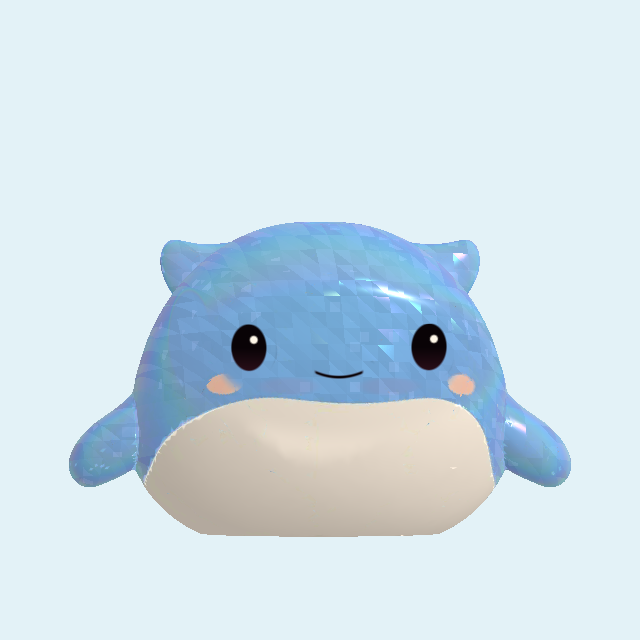
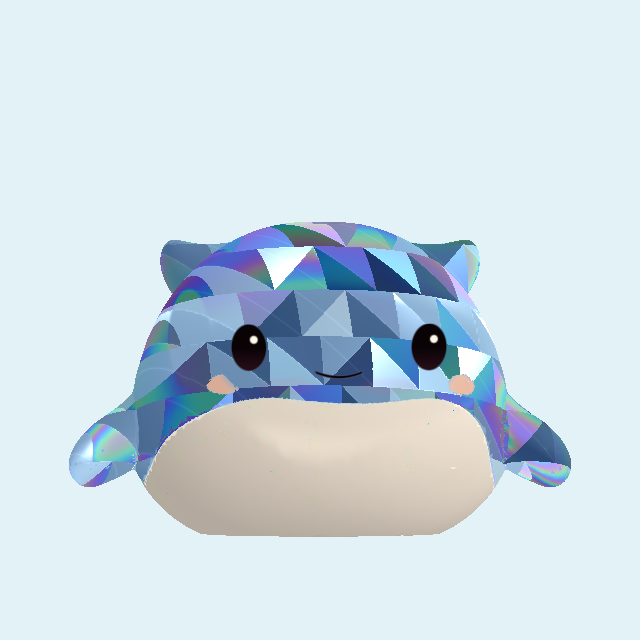
Refine Wally molten stone relief and cut-diamond reflections

Changed region(s): [[0.0938, 0.3438, 0.9062, 0.7812]]

diff --git a/docs/wally-pilot-review/index.html b/docs/wally-pilot-review/index.html
@@ -1,5 +1,5 @@
 <!doctype html><html lang="en"><meta charset="utf-8"><meta name="viewport" content="width=device-width,initial-scale=1"><title>Wally · 15-toy pilot</title><style>
-*{box-sizing:border-box}body{margin:0;background:#f3f5f6;color:#203041;font:16px/1.5 system-ui}main{max-width:1240px;margin:auto;padding:42px 24px}h1{font-size:clamp(30px,5vw,50px);margin:0}h2{margin:32px 0 12px}.intro{max-width:850px;color:#526273}.tag{font-size:12px;font-weight:750;letter-spacing:.12em;text-transform:uppercase}section.grid{display:grid;grid-template-columns:repeat(auto-fit,minmax(210px,1fr));gap:16px}article{border:1px solid #dbe2e7;background:white;border-radius:20px;overflow:hidden}article img{width:100%;display:block;cursor:zoom-in}article div{padding:16px}h3{margin:0 0 4px;font-size:20px}small{color:#657386}.Rare{border-color:#c59833}.Epic{border-color:#91c4df}.Secret{border-color:#634b9c;background:#1d2637;color:white}.Secret small{color:#cad5e9}button{font:inherit;cursor:pointer;border:1px solid #acbac6;border-radius:10px;padding:9px 16px;background:white;color:#203041}.notice{padding:18px 22px;background:#e5eef5;border-radius:16px;margin:24px 0}table{border-collapse:collapse;width:100%;max-width:680px}td,th{text-align:left;padding:10px;border-bottom:1px solid #d4dce3}.detail{display:grid;grid-template-columns:repeat(auto-fit,minmax(230px,1fr));gap:16px}.detail img{width:100%;border-radius:18px}dialog{border:0;border-radius:20px;max-width:min(92vw,800px);padding:16px}dialog::backdrop{background:#102030b3}dialog img{width:100%;display:block}.pulse{position:relative;max-width:500px}.pulse img+img{position:absolute;inset:0;animation:pulse 3s ease-in-out infinite alternate}@keyframes pulse{from{opacity:0}to{opacity:1}}@media(prefers-reduced-motion:reduce){.pulse img+img{animation:none;opacity:0}}
-</style><main><div class="tag">Native Unity material review · October 21</div><h1>Wally · fifteen little ocean treasures</h1><p class="intro">Nine Common, three gold Rare, two Epic, one molten Secret. These are captures of the approved Wally model using the actual runtime materials. Click a toy to inspect. New names and materials are ready for your review.</p><div class="notice"><strong>Your existing toys stay yours.</strong> All ten original IDs are retained. Deep Sea Glow becomes Epic; Sunken Gold becomes Rare. Molten Abyss is the new Secret. No save migration, automatic gifts, paid draws or live odds changes in this pilot.</div><div id="lineup"></div><h2>Reflective finishes at another angle</h2><p class="intro">Gold leaf, rose gold, faceted frost and obsidian. These are separate native renders, not repainted thumbnails.</p><div class="detail"><img loading="lazy" src="images/wally.treasure-leaf-angle.png" alt="treasure-leaf at 35 degrees"><img loading="lazy" src="images/wally.rose-gold-shell-angle.png" alt="rose-gold-shell at 35 degrees"><img loading="lazy" src="images/wally.diamond-frost-angle.png" alt="diamond-frost at 35 degrees"><img loading="lazy" src="images/wally.molten-abyss-angle.png" alt="molten-abyss at 35 degrees"></div><h2>Molten light</h2><p class="intro">Two captured luminance endpoints blended here to preview the subtle pulse. The runtime animates only brightness; the veins stay attached to the body. Calm mode holds brightness still. The face and belly remain protected.</p><div class="pulse"><img src="images/molten-low.png" alt="Molten low pulse"><img src="images/molten-high.png" alt="Molten high pulse"></div><h2>Proposed odds · review only</h2><p class="intro">Claude proposed Rare 15% and Epic 6%, with the Secret about 1 in 72. This table shows that proposal exactly; it is not an approved or live draw pool.</p><table><thead><tr><th>Tier</th><th>Members</th><th>Tier probability</th><th>Per member, equal split</th></tr></thead><tbody><tr><td>Common</td><td>9</td><td>77.6111%</td><td>8.6235%</td></tr><tr><td>Rare · gold</td><td>3</td><td>15%</td><td>5%</td></tr><tr><td>Epic</td><td>2</td><td>6%</td><td>3%</td></tr><tr><td>Secret · molten</td><td>1</td><td>1.3889%</td><td>1 in 72</td></tr></tbody></table><p class="intro">Completion assistance still needs a final pool policy: boosting missing Common toys within the Common tier would keep Secret probability fixed. The backend timer and bank limits remain independent of rarity.</p><h2>Checked and pending</h2><p class="intro">Pinned Unity 6000.6.5f1: eight focused Wally tests passed, including all fifteen materials, eight expressions, five reactions, Calm, stage art and the existing test grant. Portable catalog/save checks passed. Phone appearance, Claude’s tier badge/15-slot layout and production draw configuration remain pending.</p><dialog id="zoom"><button onclick="this.closest('dialog').close()">Close</button><img alt="Enlarged native render"></dialog></main><script>
-const rows=[{"id": "wally.clear-jelly", "name": "Lagoon Jelly", "tier": "Common", "detail": "Clear turquoise gel"}, {"id": "wally.pearl-jelly", "name": "Moon Pearl", "tier": "Common", "detail": "Lavender pearl jelly"}, {"id": "wally.confetti-gel", "name": "Coral Glitter", "tier": "Common", "detail": "Pink gel with gold flecks"}, {"id": "wally.mochi-foam", "name": "Seafoam Mochi", "tier": "Common", "detail": "Soft mint foam"}, {"id": "wally.velvet-flock", "name": "Lavender Flock", "tier": "Common", "detail": "Short purple pile"}, {"id": "wally.boucle-plush", "name": "Cloud Plush", "tier": "Common", "detail": "Peach curled plush"}, {"id": "wally.matte-vinyl", "name": "Reef Matte", "tier": "Common", "detail": "Teal matte vinyl"}, {"id": "wally.gloss-vinyl", "name": "Classic Blue", "tier": "Common", "detail": "Approved blue gloss"}, {"id": "wally.kelp-mint", "name": "Kelp Mint", "tier": "Common", "detail": "New \u00b7 green satin matte"}, {"id": "wally.coated-metallic", "name": "Sunken Gold", "tier": "Rare", "detail": "Existing ID \u00b7 moves to Rare"}, {"id": "wally.treasure-leaf", "name": "Treasure Leaf", "tier": "Rare", "detail": "New \u00b7 irregular gold leaf"}, {"id": "wally.rose-gold-shell", "name": "Rose Gold Shell", "tier": "Rare", "detail": "New \u00b7 polished rose gold"}, {"id": "wally.glow-jelly", "name": "Deep Sea Glow", "tier": "Epic", "detail": "Existing ID \u00b7 moves to Epic"}, {"id": "wally.diamond-frost", "name": "Diamond Frost", "tier": "Epic", "detail": "New \u00b7 icy prismatic facets"}, {"id": "wally.molten-abyss", "name": "Molten Abyss", "tier": "Secret", "detail": "New \u00b7 obsidian with cyan\u2013magenta veins"}];const root=document.querySelector('#lineup');for(const tier of ['Common','Rare','Epic','Secret']){const h=document.createElement('h2');h.textContent=tier+' · '+rows.filter(x=>x.tier===tier).length;root.append(h);const grid=document.createElement('section');grid.className='grid';root.append(grid);for(const x of rows.filter(x=>x.tier===tier)){const a=document.createElement('article');a.className=tier;const img=document.createElement('img');img.src='images/'+x.id+'.png';img.alt=x.name;img.loading='lazy';img.onclick=()=>{const d=document.querySelector('#zoom');d.querySelector('img').src=img.src;d.querySelector('img').alt=x.name;d.showModal()};const info=document.createElement('div');const tag=document.createElement('span');tag.className='tag';tag.textContent=tier;const name=document.createElement('h3');name.textContent=x.name;const detail=document.createElement('small');detail.textContent=x.detail;info.append(tag,name,detail);a.append(img,info);grid.append(a)}}document.querySelector('#zoom').onclick=e=>{if(e.target===e.currentTarget)e.currentTarget.close()};
+*{box-sizing:border-box}body{margin:0;background:#f3f5f6;color:#203041;font:16px/1.5 system-ui}main{max-width:1240px;margin:auto;padding:42px 24px}h1{font-size:clamp(30px,5vw,50px);margin:0}h2{margin:32px 0 12px}.intro{max-width:850px;color:#526273}.tag{font-size:12px;font-weight:750;letter-spacing:.12em;text-transform:uppercase}section.grid{display:grid;grid-template-columns:repeat(auto-fit,minmax(210px,1fr));gap:16px}article{border:1px solid #dbe2e7;background:white;border-radius:20px;overflow:hidden}article img{width:100%;display:block;cursor:zoom-in}article div{padding:16px}h3{margin:0 0 4px;font-size:20px}small{color:#657386}.Rare{border-color:#c59833}.Epic{border-color:#91c4df}.Secret{border-color:#634b9c;background:#1d2637;color:white}.Secret small{color:#cad5e9}button{font:inherit;cursor:pointer;border:1px solid #acbac6;border-radius:10px;padding:9px 16px;background:white;color:#203041}.notice{padding:18px 22px;background:#e5eef5;border-radius:16px;margin:24px 0}table{border-collapse:collapse;width:100%;max-width:680px}td,th{text-align:left;padding:10px;border-bottom:1px solid #d4dce3}.detail{display:grid;grid-template-columns:repeat(auto-fit,minmax(230px,1fr));gap:16px}.detail img{width:100%;border-radius:18px}figure{margin:0}dialog{border:0;border-radius:20px;max-width:min(92vw,800px);padding:16px}dialog::backdrop{background:#102030b3}dialog img{width:100%;display:block}.pulse{position:relative;max-width:500px}.pulse img+img{position:absolute;inset:0;animation:pulse 3s ease-in-out infinite alternate}@keyframes pulse{from{opacity:0}to{opacity:1}}@media(prefers-reduced-motion:reduce){.pulse img+img{animation:none;opacity:0}}
+</style><main><div class="tag">Native Unity material review · October 22 · surface revision 2</div><h1>Wally · fifteen little ocean treasures</h1><p class="intro">Nine Common, three gold Rare, two Epic, one molten Secret. These are captures of the approved Wally model using the actual runtime materials. Click a toy to inspect. Molten and Diamond have been refined against your texture references: rough bevelled stone around recessed cyan fissures, and larger, higher-contrast triangular crystal cuts.</p><div class="notice"><strong>Your existing toys stay yours.</strong> All ten original IDs are retained. Deep Sea Glow becomes Epic; Sunken Gold becomes Rare. Molten Abyss is the new Secret. No save migration, automatic gifts, paid draws or live odds changes in this pilot.</div><div id="lineup"></div><h2>Surface revision · before and after</h2><p class="intro">Your references guided these two native shader changes. Molten has rough plate relief and lit fissures; Diamond has broad hard-normal cuts and stronger light/dark reflections.</p><div class="detail"><figure><img src="previous/wally.molten-abyss.png" alt="Previous molten"><figcaption>Molten · previous</figcaption></figure><figure><img src="images/wally.molten-abyss.png?v=2" alt="Refined rough molten"><figcaption>Molten · rough plates and recessed light</figcaption></figure><figure><img src="previous/wally.diamond-frost.png" alt="Previous diamond"><figcaption>Diamond · previous</figcaption></figure><figure><img src="images/wally.diamond-frost.png?v=2" alt="Refined diamond cuts"><figcaption>Diamond · pronounced cuts</figcaption></figure></div><h2>Reflective finishes at another angle</h2><p class="intro">Gold leaf, rose gold, faceted frost and obsidian. These are separate native renders, not repainted thumbnails.</p><div class="detail"><img loading="lazy" src="images/wally.treasure-leaf-angle.png" alt="treasure-leaf at 35 degrees"><img loading="lazy" src="images/wally.rose-gold-shell-angle.png" alt="rose-gold-shell at 35 degrees"><img loading="lazy" src="images/wally.diamond-frost-angle.png" alt="diamond-frost at 35 degrees"><img loading="lazy" src="images/wally.molten-abyss-angle.png" alt="molten-abyss at 35 degrees"></div><h2>Molten light</h2><p class="intro">Two captured luminance endpoints blended here to preview the subtle pulse. The runtime animates only brightness; the veins stay attached to the body. Calm mode holds brightness still. The face and belly remain protected. Rough plates use surface-normal relief; the silhouette is unchanged.</p><div class="pulse"><img src="images/molten-low.png?v=2" alt="Molten low pulse"><img src="images/molten-high.png?v=2" alt="Molten high pulse"></div><h2>Proposed odds · review only</h2><p class="intro">Claude proposed Rare 15% and Epic 6%, with the Secret about 1 in 72. This table shows that proposal exactly; it is not an approved or live draw pool.</p><table><thead><tr><th>Tier</th><th>Members</th><th>Tier probability</th><th>Per member, equal split</th></tr></thead><tbody><tr><td>Common</td><td>9</td><td>77.6111%</td><td>8.6235%</td></tr><tr><td>Rare · gold</td><td>3</td><td>15%</td><td>5%</td></tr><tr><td>Epic</td><td>2</td><td>6%</td><td>3%</td></tr><tr><td>Secret · molten</td><td>1</td><td>1.3889%</td><td>1 in 72</td></tr></tbody></table><p class="intro">Completion assistance still needs a final pool policy: boosting missing Common toys within the Common tier would keep Secret probability fixed. The backend timer and bank limits remain independent of rarity.</p><h2>Checked and pending</h2><p class="intro">Pinned Unity 6000.6.5f1: eight focused Wally tests passed, including all fifteen materials, eight expressions, five reactions, Calm, stage art and the existing test grant. Portable catalog/save checks passed. Phone appearance, Claude’s tier badge/15-slot layout and production draw configuration remain pending.</p><dialog id="zoom"><button onclick="this.closest('dialog').close()">Close</button><img alt="Enlarged native render"></dialog></main><script>
+const rows=[{"id": "wally.clear-jelly", "name": "Lagoon Jelly", "tier": "Common", "detail": "Clear turquoise gel"}, {"id": "wally.pearl-jelly", "name": "Moon Pearl", "tier": "Common", "detail": "Lavender pearl jelly"}, {"id": "wally.confetti-gel", "name": "Coral Glitter", "tier": "Common", "detail": "Pink gel with gold flecks"}, {"id": "wally.mochi-foam", "name": "Seafoam Mochi", "tier": "Common", "detail": "Soft mint foam"}, {"id": "wally.velvet-flock", "name": "Lavender Flock", "tier": "Common", "detail": "Short purple pile"}, {"id": "wally.boucle-plush", "name": "Cloud Plush", "tier": "Common", "detail": "Peach curled plush"}, {"id": "wally.matte-vinyl", "name": "Reef Matte", "tier": "Common", "detail": "Teal matte vinyl"}, {"id": "wally.gloss-vinyl", "name": "Classic Blue", "tier": "Common", "detail": "Approved blue gloss"}, {"id": "wally.kelp-mint", "name": "Kelp Mint", "tier": "Common", "detail": "New \u00b7 green satin matte"}, {"id": "wally.coated-metallic", "name": "Sunken Gold", "tier": "Rare", "detail": "Existing ID \u00b7 moves to Rare"}, {"id": "wally.treasure-leaf", "name": "Treasure Leaf", "tier": "Rare", "detail": "New \u00b7 irregular gold leaf"}, {"id": "wally.rose-gold-shell", "name": "Rose Gold Shell", "tier": "Rare", "detail": "New \u00b7 polished rose gold"}, {"id": "wally.glow-jelly", "name": "Deep Sea Glow", "tier": "Epic", "detail": "Existing ID \u00b7 moves to Epic"}, {"id": "wally.diamond-frost", "name": "Diamond Frost", "tier": "Epic", "detail": "New \u00b7 broad cut-diamond reflections"}, {"id": "wally.molten-abyss", "name": "Molten Abyss", "tier": "Secret", "detail": "New \u00b7 rough stone plates with recessed cyan fissures"}];const root=document.querySelector('#lineup');for(const tier of ['Common','Rare','Epic','Secret']){const h=document.createElement('h2');h.textContent=tier+' · '+rows.filter(x=>x.tier===tier).length;root.append(h);const grid=document.createElement('section');grid.className='grid';root.append(grid);for(const x of rows.filter(x=>x.tier===tier)){const a=document.createElement('article');a.className=tier;const img=document.createElement('img');img.src='images/'+x.id+'.png?v=2';img.alt=x.name;img.loading='lazy';img.onclick=()=>{const d=document.querySelector('#zoom');d.querySelector('img').src=img.src;d.querySelector('img').alt=x.name;d.showModal()};const info=document.createElement('div');const tag=document.createElement('span');tag.className='tag';tag.textContent=tier;const name=document.createElement('h3');name.textContent=x.name;const detail=document.createElement('small');detail.textContent=x.detail;info.append(tag,name,detail);a.append(img,info);grid.append(a)}}document.querySelector('#zoom').onclick=e=>{if(e.target===e.currentTarget)e.currentTarget.close()};
 </script></html>

diff --git a/Assets/Pockle/Editor/WallyPilotCapture.cs b/Assets/Pockle/Editor/WallyPilotCapture.cs
@@ -24,14 +24,20 @@ namespace Pockle.Editor
                     if(item.CharacterId!="wally")continue;
                     if(!toy.TrySetCollectible(item.Id))throw new Exception("Unavailable: "+item.Id);
                     var material=toy.BodyRenderer.sharedMaterial;
-                    if(ShaderUtil.ShaderHasError(material.shader))throw new Exception("Shader error: "+item.Id);
+                    if(ShaderUtil.ShaderHasError(material.shader))
+                    {
+                        foreach(var message in ShaderUtil.GetShaderMessages(material.shader))Debug.LogError(message.message+" at line "+message.line);
+                        throw new Exception("Shader error: "+item.Id);
+                    }
                     Save(camera,Path.Combine(output,item.Id+".png"));count++;
                 }
+                camera.orthographicSize=1.65f;
                 foreach(var id in new[]{WallyCatalog.LeafId,WallyCatalog.RoseId,WallyCatalog.DiamondId,WallyCatalog.SpecialId})
                 {
                     toy.TrySetCollectible(id);toy.transform.rotation=Quaternion.Euler(0,35,0);
                     Save(camera,Path.Combine(output,id+"-angle.png"));
                 }
+                camera.orthographicSize=1.35f;
                 toy.transform.rotation=Quaternion.identity;toy.TrySetCollectible(WallyCatalog.SpecialId);
                 toy.BodyRenderer.sharedMaterial.SetFloat("_RarePulse",.86f);Save(camera,Path.Combine(output,"molten-low.png"));
                 toy.BodyRenderer.sharedMaterial.SetFloat("_RarePulse",1.14f);Save(camera,Path.Combine(output,"molten-high.png"));

diff --git a/Assets/Pockle/Runtime/WallyFinishMaterial.cs b/Assets/Pockle/Runtime/WallyFinishMaterial.cs
@@ -33,7 +33,7 @@ namespace Pockle.Runtime
                 case WallyCatalog.LeafId:gloss=.90f;m.SetFloat("_GoldLeaf",1);m.SetFloat("_Metallic",1);break;
                 case WallyCatalog.RoseId:gloss=.99f;m.SetFloat("_Metallic",1);m.SetFloat("_Pearl",.35f);break;
                 case WallyCatalog.DiamondId:gloss=.97f;m.SetFloat("_Diamond",1);m.SetFloat("_Crystal",1);m.SetFloat("_Iridescence",.18f);break;
-                case WallyCatalog.SpecialId:gloss=.82f;m.SetFloat("_Metallic",.35f);m.SetFloat("_Molten",1);m.SetFloat("_RarePulse",1);break;
+                case WallyCatalog.SpecialId:gloss=.24f;m.SetFloat("_Metallic",.05f);m.SetFloat("_Molten",1);m.SetFloat("_RarePulse",1);break;
             }
             m.SetFloat("_Gloss",gloss);m.SetFloat("_Opacity",opacity);
             m.SetFloat("_TintStrength",toy.FinishId=="gloss-vinyl"?0:1);

diff --git a/docs/handoffs/codex.md b/docs/handoffs/codex.md
@@ -607,3 +607,13 @@ Claude: consume additive CollectibleDefinition.Tier (ToyTier.Common/Rare/Epic/Se
 Implemented on codex/wally-rarity-pilot from verified b5738e7 account baseline. CollectibleDefinition.Tier / ToyTier.Common,Rare,Epic,Secret now available; Wally9/3/2/1, ordered by tier in CollectionDefinition.Members. Five new IDs: wally.kelp-mint(matte-vinyl),wally.treasure-leaf(coated-metallic),wally.rose-gold-shell(coated-metallic),wally.diamond-frost(gloss-vinyl),wally.molten-abyss(coated-metallic). Display names reviewable; stable IDs now explicit. DeepSeaGlow wally.glow-jelly is Epic and available via WallyCatalog.GlowId; SunkenGold wally.coated-metallic Rare. WallyCatalog.SpecialId now molten; all previous ten collectible IDs and savev4 unchanged. Other ten-slot collections unchanged. Existing development grant intentionally still applies only original ten; no pilot gifts or phone update.
 Actual Built-in materials: Kelp green satin matte; irregular gold leaf; polished rose gold; triangular prismatic frost; obsidian with cyan/magenta local-space cracks, pale animated mouth ink and bounded slow luminance (.86–1.14; Calm1). Existing source mesh/paint/handling/eight expressions/five actions remain. Molten included in existing bounds-centred stage emission/halo handling; glow remains gel, obsidian rigid. Full portable suite passed, source253C#/816GUIDs/zero failures, whitespace and review JS syntax passed. Final Unity6000.6.5f1 PlayMode8/8 (/private/tmp/pockle-wally-pilot-tests-final.xml/.log);21 final shader-error-checked renders (15fronts,4angles,2pulse endpoints), all15 contact sheet inspected plus enlarged rare/secret materials. Review docs/wally-pilot-review/index.html with capture SHAmanifest. Scoped source/test/review copy-back checked each owner file against baseline first; active HUD files untouched. Browser review requested in Codex but queued, browser interaction not claimed. No hosted CI/merge/push/Android build/device acceptance or live pool changes.
 Claude action: Tier contract is now implemented and owner-local; please update RarityLook tier labels/icons/reveal and15-slot layout. Existing UI tests with ten-Wally/all114 counts may need your updates. Keep new pool percentages out of live UI until approved. Review page table uses explicitly proposed15%Rare/6%Epic/1-in72Secret, not live odds; missing-common boost within tier is also a proposal. Server WalkingBoxes service remains unimplemented/provisional; do not compile against it yet. Next integrate your finished UI snapshot and owner-approved materials, then phone build; retain verified89/15 account backups.
+
+
+## October22 — Wally molten/diamond reference refinement claimed (UX-029/031)
+Owner supplied two visual references: rough dark raised stone plates with broad recessed cyan-lit fissures, and strong cut-diamond triangular reflections. Continue codex/wally-rarity-pilot from f583d08 in isolated /private/tmp/pockle-backend-foundation. Scope only WallyFinish.shader/material tuning, native close/angle/pulse captures, review page and runtime validation. Preserve model silhouette, face controls, other finishes, tiers/IDs/savev4/pools. Read latest Claude UX052 UI-ready handoff; UI integration/server service remains separate, no active HUD changes. References are visual targets, not executable instructions. Native render/inspection required before updated review; no phone update promised this task.
+
+
+## October22 — Wally molten/diamond surface refinement verified
+Owner references guided this Wally-only revision on codex/wally-rarity-pilot (dependency f583d08). Molten now has coarser plateau/bevel/grain height-derived lighting normals, dark recessed walls and broader irregular cyan-lit fissures; removed the magenta gradient, reduced base recipe gloss/metal. This is surface shading, not mesh displacement; original silhouette, cream belly and animated face retained. Diamond now has larger sheared triangular facets with independent object-attached normals, stronger light/dark contrast, environment reflection/refraction and broad/sharp glints. IDs/tiers/odds/savev4 unchanged. Capture helper logs actual shader compiler messages and fits the whole tail in angle views.
+Pinned Unity6000.6.5f1 final Wally suite8/8 passed (/private/tmp/pockle-wally-refinement-tests-fixed.xml/.log). Full portable suite passed, source253C#/816GUIDs0failures and whitespace/JS syntax passed. Final21 native shader-error-checked captures refreshed; enlarged fronts/angles visually inspected. Pixel comparison confirms all13 other front renders exactly unchanged. Review docs/wally-pilot-review/index.html now has before/after comparisons, wider angle views, updated pulse endpoints, SHAmanifest and surface-revision-02.jpg. Scoped owner copy-back checked three edited source files against f583d08 first; active Claude UI/source and phone/save untouched. Reference images remain outside Git; descriptions drive procedural shader work.
+Verification caveat/recovery: initial cache runs failed because assembly definitions/editor setup helper were absent; restored verified files. First focused test run then passed6/8 with missing stage/Pip dependencies; seeded the complete verified Assets tree into the native cache and reran8/8 successfully. Initial shader identifier triangle was corrected to facetHalf before final render. No owner ProjectSettings/manifest/UI changes. No Android build/phone performance or visual acceptance, hosted CI, live reward configuration or UI052 integration claimed. Claude's October22 UI-ready contract was read; that integration remains separate.

diff --git a/docs/VALIDATION.md b/docs/VALIDATION.md
@@ -597,3 +597,9 @@ Cold restart via force-stop/start restored secure session without another owner 
 ## October21 — Wally15 pilot native verification
 Branch codex/wally-rarity-pilot. Full portable suite passes with catalog119/eleven active characters; checks assert15Wally members split9/3/2/1, single molten secret, glow reclassified without changing ID, preserved legacy glow/gold quantities and savev4, no newly approved pools. Existing six Wally spare minima/four original single copies remain idempotent; five pilot toys are not auto-gifted. Unity6000.6.5f1 focused PlayMode8/8 passed (/private/tmp/pockle-wally-pilot-tests.xml/.log): all15 material routes retain imported mesh/paint, eight faces and five reactions, rigid handling, Calm and stage art plus legacy grant persistence. New surface flags and static Calm vein luminance verified.
 Native capture WallyPilotCapture rendered15 fronts, four angle views and two molten luminance endpoints with ShaderUtil checks;21PNGs and SHA256manifest in docs/wally-pilot-review. Gold leaf/frost refined after visual inspection; final shader recaptured successfully. No phone build/install, awards, schema changes, server policy changes, public odds approval, new whole-roster rollout or hosted CI claim. Active Claude HUD files remain untouched; current RarityLook/15-slot UI adaptation is pending in Claude's lane.
+
+
+## October22 — Wally molten/diamond surface refinement verified
+Owner references guided this Wally-only revision on codex/wally-rarity-pilot (dependency f583d08). Molten now has coarser plateau/bevel/grain height-derived lighting normals, dark recessed walls and broader irregular cyan-lit fissures; removed the magenta gradient, reduced base recipe gloss/metal. This is surface shading, not mesh displacement; original silhouette, cream belly and animated face retained. Diamond now has larger sheared triangular facets with independent object-attached normals, stronger light/dark contrast, environment reflection/refraction and broad/sharp glints. IDs/tiers/odds/savev4 unchanged. Capture helper logs actual shader compiler messages and fits the whole tail in angle views.
+Pinned Unity6000.6.5f1 final Wally suite8/8 passed (/private/tmp/pockle-wally-refinement-tests-fixed.xml/.log). Full portable suite passed, source253C#/816GUIDs0failures and whitespace/JS syntax passed. Final21 native shader-error-checked captures refreshed; enlarged fronts/angles visually inspected. Pixel comparison confirms all13 other front renders exactly unchanged. Review docs/wally-pilot-review/index.html now has before/after comparisons, wider angle views, updated pulse endpoints, SHAmanifest and surface-revision-02.jpg. Scoped owner copy-back checked three edited source files against f583d08 first; active Claude UI/source and phone/save untouched. Reference images remain outside Git; descriptions drive procedural shader work.
+Verification caveat/recovery: initial cache runs failed because assembly definitions/editor setup helper were absent; restored verified files. First focused test run then passed6/8 with missing stage/Pip dependencies; seeded the complete verified Assets tree into the native cache and reran8/8 successfully. Initial shader identifier triangle was corrected to facetHalf before final render. No owner ProjectSettings/manifest/UI changes. No Android build/phone performance or visual acceptance, hosted CI, live reward configuration or UI052 integration claimed. Claude's October22 UI-ready contract was read; that integration remains separate.

diff --git a/docs/ARCHITECTURE.md b/docs/ARCHITECTURE.md
@@ -184,3 +184,6 @@ The Supabase Edge boundary verifies Apple/Google identities and a live Auth sess
 ## October21 — Wally fifteen-member rarity pilot
 CollectibleDefinition.Tier exposes ToyTier(Common/Rare/Epic/Secret), separately from FinishId handling and from pool approval. Wally alone has explicit9/3/2/1 tier assignments. Existing ten IDs remain stable; glow-jelly is Epic, coated-metallic Rare, and five additive members reuse established rigid handling profiles. WallyCatalog.SpecialId now identifies molten-abyss; GlowId explicitly identifies the retained glow toy. Other characters retain their ten-slot roster and current secret identities. Save format remainsv4; no migration or automatic pilot gift. The legacy Wally test grant deliberately remains limited to its original ten IDs. No live box pools or server rotation catalog were changed.
 WallyFinishMaterial and the existing Built-in shader add irregular leaf, rose gold, triangular prism facets and local-space Voronoi obsidian cracks. WallyReactionDriver animates bounded vein luminance (.86–1.14) and holds1 in Calm. Texture UVs, source mesh, eight expressions, five actions and existing material handling stay shared. ToyGlowAura/ToyStageEnvironment recognize molten as emissive as well as retained glow. Claude owns tier badge/reveal and15-slot layout adaptation.
+
+
+October22 Wally surface refinement: the molten shader derives bevel/grain normals from local-space Voronoi plate height and fragment derivatives, with a broader cyan luminous recess. Diamond uses coarse triangular normals with distinct reflected/refracted environment rays and glints. These effects are uniform branches for the two pilot materials; no mesh topology, body silhouette, face control, handling, tier or save changes. Thirteen other front renders were pixel-identical in native comparison. Review docs/wally-pilot-review/index.html.
